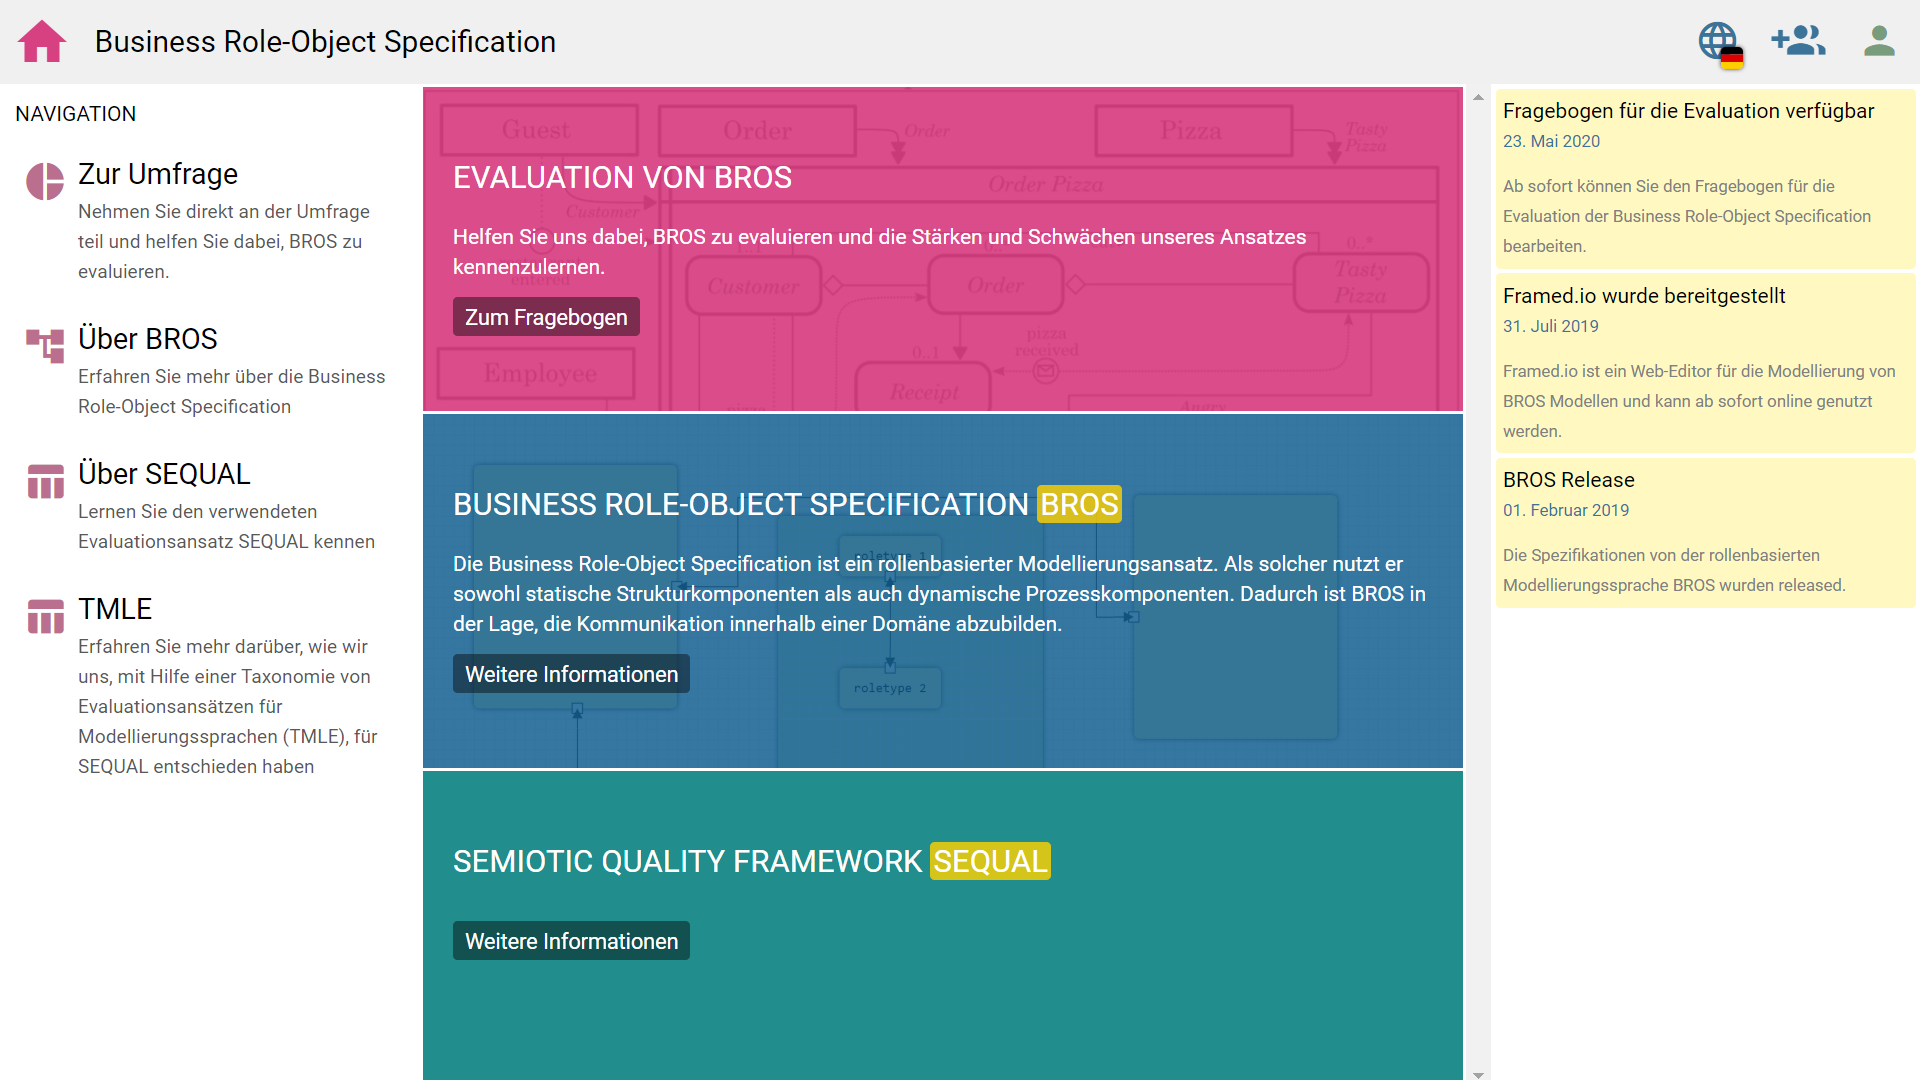
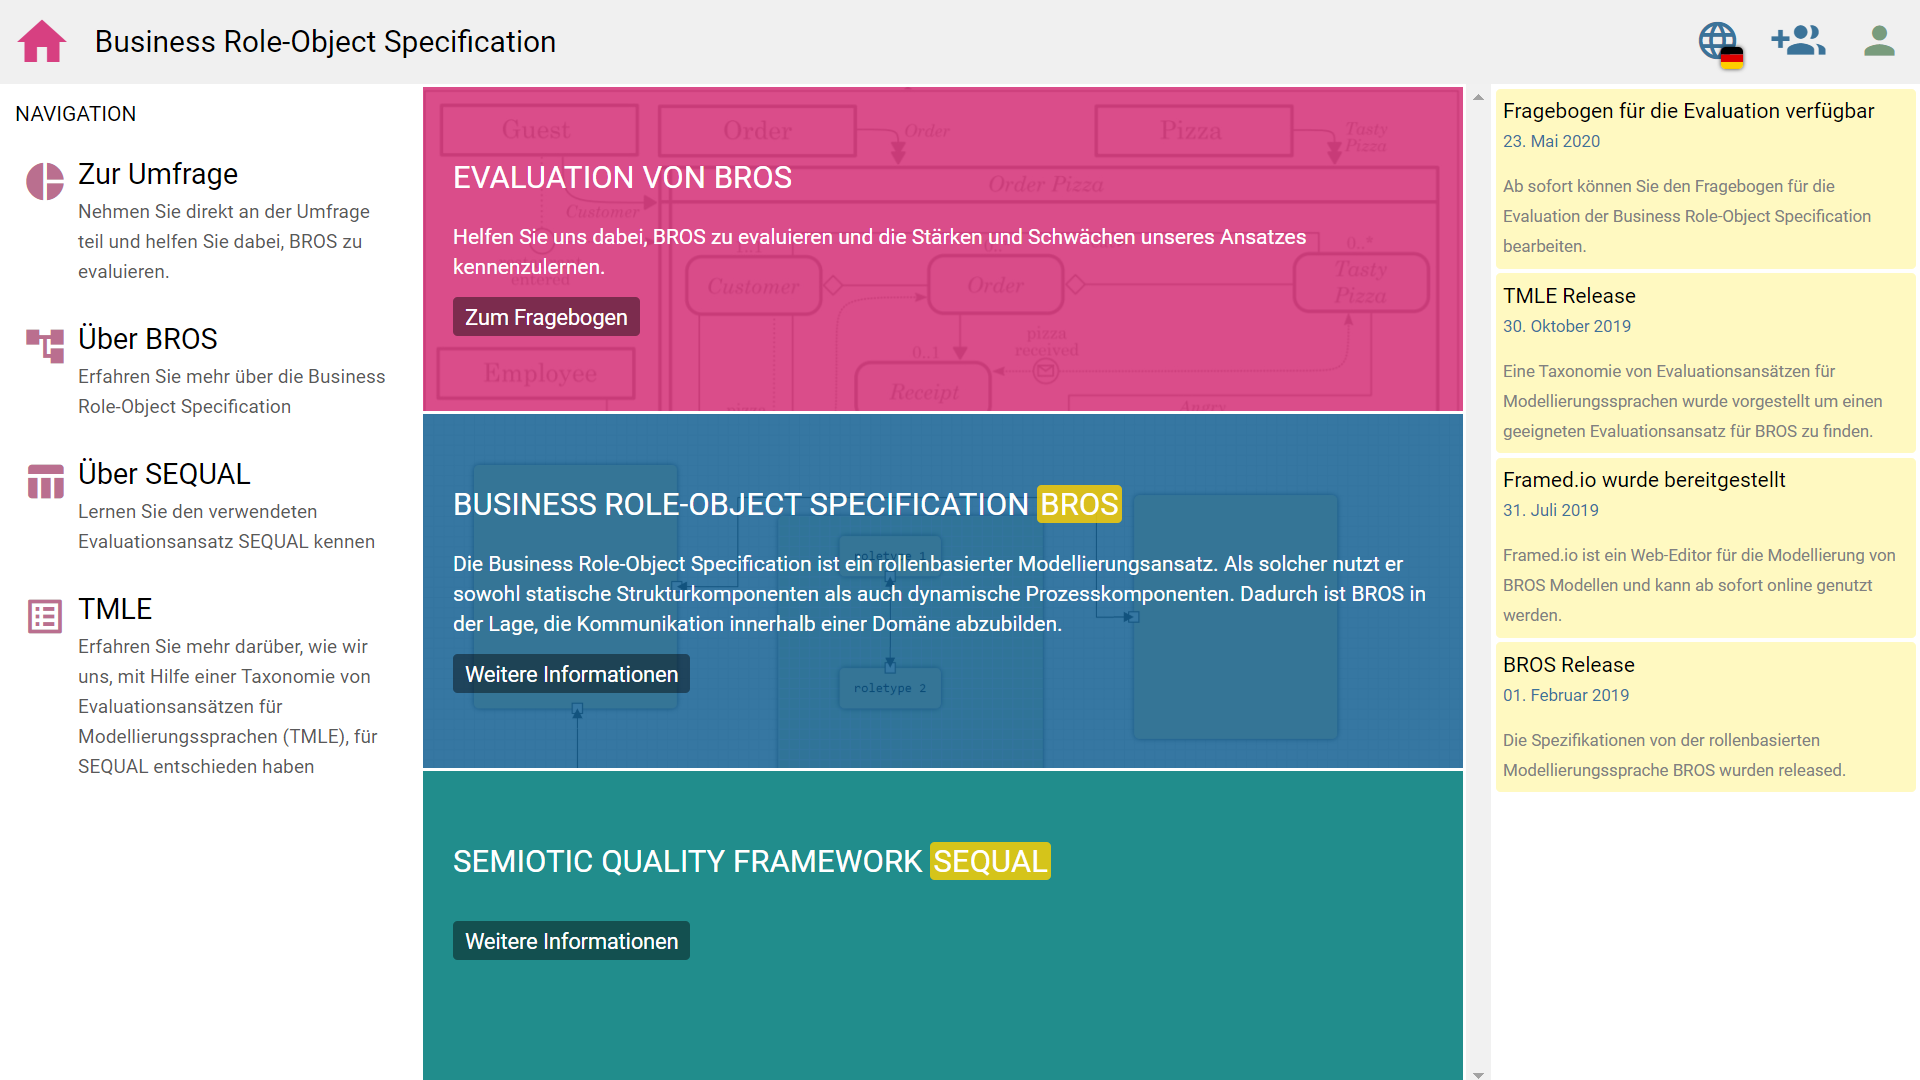
bugfix

Changed region(s): [[0.7812, 0.3361, 1.0, 0.7333], [0.7812, 0.2444, 0.9062, 0.3056], [0.0, 0.55, 0.0312, 0.5806]]

diff --git a/docs/main-es2015.js b/docs/main-es2015.js
@@ -320,7 +320,7 @@ NavigationComponent.ɵcmp = _angular_core__WEBPACK_IMPORTED_MODULE_0__["ɵɵdefi
         _angular_core__WEBPACK_IMPORTED_MODULE_0__["ɵɵelementStart"](33, "div", 7);
         _angular_core__WEBPACK_IMPORTED_MODULE_0__["ɵɵelementStart"](34, "div");
         _angular_core__WEBPACK_IMPORTED_MODULE_0__["ɵɵelementStart"](35, "mat-icon", 3);
-        _angular_core__WEBPACK_IMPORTED_MODULE_0__["ɵɵtext"](36, "table_chart");
+        _angular_core__WEBPACK_IMPORTED_MODULE_0__["ɵɵtext"](36, "list_alt");
         _angular_core__WEBPACK_IMPORTED_MODULE_0__["ɵɵelementEnd"]();
         _angular_core__WEBPACK_IMPORTED_MODULE_0__["ɵɵelementEnd"]();
         _angular_core__WEBPACK_IMPORTED_MODULE_0__["ɵɵelementStart"](37, "div");
@@ -368,7 +368,7 @@ class NewsfeedComponent {
     }
 }
 NewsfeedComponent.ɵfac = function NewsfeedComponent_Factory(t) { return new (t || NewsfeedComponent)(); };
-NewsfeedComponent.ɵcmp = _angular_core__WEBPACK_IMPORTED_MODULE_0__["ɵɵdefineComponent"]({ type: NewsfeedComponent, selectors: [["app-newsfeed"]], decls: 22, vars: 0, consts: [[1, "body"], [1, "news"], [1, "headline"], [1, "date"], [1, "sub-title"]], template: function NewsfeedComponent_Template(rf, ctx) { if (rf & 1) {
+NewsfeedComponent.ɵcmp = _angular_core__WEBPACK_IMPORTED_MODULE_0__["ɵɵdefineComponent"]({ type: NewsfeedComponent, selectors: [["app-newsfeed"]], decls: 29, vars: 0, consts: [[1, "body"], [1, "news"], [1, "headline"], [1, "date"], [1, "sub-title"]], template: function NewsfeedComponent_Template(rf, ctx) { if (rf & 1) {
         _angular_core__WEBPACK_IMPORTED_MODULE_0__["ɵɵelementStart"](0, "div", 0);
         _angular_core__WEBPACK_IMPORTED_MODULE_0__["ɵɵelementStart"](1, "div", 1);
         _angular_core__WEBPACK_IMPORTED_MODULE_0__["ɵɵelementStart"](2, "div", 2);
@@ -383,24 +383,35 @@ NewsfeedComponent.ɵcmp = _angular_core__WEBPACK_IMPORTED_MODULE_0__["ɵɵdefine
         _angular_core__WEBPACK_IMPORTED_MODULE_0__["ɵɵelementEnd"]();
         _angular_core__WEBPACK_IMPORTED_MODULE_0__["ɵɵelementStart"](8, "div", 1);
         _angular_core__WEBPACK_IMPORTED_MODULE_0__["ɵɵelementStart"](9, "div", 2);
-        _angular_core__WEBPACK_IMPORTED_MODULE_0__["ɵɵtext"](10, "Framed.io wurde bereitgestellt");
+        _angular_core__WEBPACK_IMPORTED_MODULE_0__["ɵɵtext"](10, "TMLE Release");
         _angular_core__WEBPACK_IMPORTED_MODULE_0__["ɵɵelementEnd"]();
         _angular_core__WEBPACK_IMPORTED_MODULE_0__["ɵɵelementStart"](11, "div", 3);
-        _angular_core__WEBPACK_IMPORTED_MODULE_0__["ɵɵtext"](12, "31. Juli 2019");
+        _angular_core__WEBPACK_IMPORTED_MODULE_0__["ɵɵtext"](12, "30. Oktober 2019");
         _angular_core__WEBPACK_IMPORTED_MODULE_0__["ɵɵelementEnd"]();
         _angular_core__WEBPACK_IMPORTED_MODULE_0__["ɵɵelementStart"](13, "div", 4);
-        _angular_core__WEBPACK_IMPORTED_MODULE_0__["ɵɵtext"](14, " Framed.io ist ein Web-Editor f\u00FCr die Modellierung von BROS Modellen und kann ab sofort online genutzt werden. ");
+        _angular_core__WEBPACK_IMPORTED_MODULE_0__["ɵɵtext"](14, " Eine Taxonomie von Evaluationsans\u00E4tzen f\u00FCr Modellierungssprachen wurde vorgestellt um einen geeigneten Evaluationsansatz f\u00FCr BROS zu finden. ");
         _angular_core__WEBPACK_IMPORTED_MODULE_0__["ɵɵelementEnd"]();
         _angular_core__WEBPACK_IMPORTED_MODULE_0__["ɵɵelementEnd"]();
         _angular_core__WEBPACK_IMPORTED_MODULE_0__["ɵɵelementStart"](15, "div", 1);
         _angular_core__WEBPACK_IMPORTED_MODULE_0__["ɵɵelementStart"](16, "div", 2);
-        _angular_core__WEBPACK_IMPORTED_MODULE_0__["ɵɵtext"](17, "BROS Release");
+        _angular_core__WEBPACK_IMPORTED_MODULE_0__["ɵɵtext"](17, "Framed.io wurde bereitgestellt");
         _angular_core__WEBPACK_IMPORTED_MODULE_0__["ɵɵelementEnd"]();
         _angular_core__WEBPACK_IMPORTED_MODULE_0__["ɵɵelementStart"](18, "div", 3);
-        _angular_core__WEBPACK_IMPORTED_MODULE_0__["ɵɵtext"](19, "01. Februar 2019");
+        _angular_core__WEBPACK_IMPORTED_MODULE_0__["ɵɵtext"](19, "31. Juli 2019");
         _angular_core__WEBPACK_IMPORTED_MODULE_0__["ɵɵelementEnd"]();
         _angular_core__WEBPACK_IMPORTED_MODULE_0__["ɵɵelementStart"](20, "div", 4);
-        _angular_core__WEBPACK_IMPORTED_MODULE_0__["ɵɵtext"](21, " Die Spezifikationen von der rollenbasierten Modellierungssprache BROS wurden released. ");
+        _angular_core__WEBPACK_IMPORTED_MODULE_0__["ɵɵtext"](21, " Framed.io ist ein Web-Editor f\u00FCr die Modellierung von BROS Modellen und kann ab sofort online genutzt werden. ");
+        _angular_core__WEBPACK_IMPORTED_MODULE_0__["ɵɵelementEnd"]();
+        _angular_core__WEBPACK_IMPORTED_MODULE_0__["ɵɵelementEnd"]();
+        _angular_core__WEBPACK_IMPORTED_MODULE_0__["ɵɵelementStart"](22, "div", 1);
+        _angular_core__WEBPACK_IMPORTED_MODULE_0__["ɵɵelementStart"](23, "div", 2);
+        _angular_core__WEBPACK_IMPORTED_MODULE_0__["ɵɵtext"](24, "BROS Release");
+        _angular_core__WEBPACK_IMPORTED_MODULE_0__["ɵɵelementEnd"]();
+        _angular_core__WEBPACK_IMPORTED_MODULE_0__["ɵɵelementStart"](25, "div", 3);
+        _angular_core__WEBPACK_IMPORTED_MODULE_0__["ɵɵtext"](26, "01. Februar 2019");
+        _angular_core__WEBPACK_IMPORTED_MODULE_0__["ɵɵelementEnd"]();
+        _angular_core__WEBPACK_IMPORTED_MODULE_0__["ɵɵelementStart"](27, "div", 4);
+        _angular_core__WEBPACK_IMPORTED_MODULE_0__["ɵɵtext"](28, " Die Spezifikationen von der rollenbasierten Modellierungssprache BROS wurden released. ");
         _angular_core__WEBPACK_IMPORTED_MODULE_0__["ɵɵelementEnd"]();
         _angular_core__WEBPACK_IMPORTED_MODULE_0__["ɵɵelementEnd"]();
         _angular_core__WEBPACK_IMPORTED_MODULE_0__["ɵɵelementEnd"]();

diff --git a/docs/main-es5.js b/docs/main-es5.js
@@ -627,7 +627,7 @@ function _classCallCheck(instance, Constructor) { if (!(instance instanceof Cons
 
           _angular_core__WEBPACK_IMPORTED_MODULE_0__["ɵɵelementStart"](35, "mat-icon", 3);
 
-          _angular_core__WEBPACK_IMPORTED_MODULE_0__["ɵɵtext"](36, "table_chart");
+          _angular_core__WEBPACK_IMPORTED_MODULE_0__["ɵɵtext"](36, "list_alt");
 
           _angular_core__WEBPACK_IMPORTED_MODULE_0__["ɵɵelementEnd"]();
 
@@ -731,7 +731,7 @@ function _classCallCheck(instance, Constructor) { if (!(instance instanceof Cons
     NewsfeedComponent.ɵcmp = _angular_core__WEBPACK_IMPORTED_MODULE_0__["ɵɵdefineComponent"]({
       type: NewsfeedComponent,
       selectors: [["app-newsfeed"]],
-      decls: 22,
+      decls: 29,
       vars: 0,
       consts: [[1, "body"], [1, "news"], [1, "headline"], [1, "date"], [1, "sub-title"]],
       template: function NewsfeedComponent_Template(rf, ctx) {
@@ -764,19 +764,19 @@ function _classCallCheck(instance, Constructor) { if (!(instance instanceof Cons
 
           _angular_core__WEBPACK_IMPORTED_MODULE_0__["ɵɵelementStart"](9, "div", 2);
 
-          _angular_core__WEBPACK_IMPORTED_MODULE_0__["ɵɵtext"](10, "Framed.io wurde bereitgestellt");
+          _angular_core__WEBPACK_IMPORTED_MODULE_0__["ɵɵtext"](10, "TMLE Release");
 
           _angular_core__WEBPACK_IMPORTED_MODULE_0__["ɵɵelementEnd"]();
 
           _angular_core__WEBPACK_IMPORTED_MODULE_0__["ɵɵelementStart"](11, "div", 3);
 
-          _angular_core__WEBPACK_IMPORTED_MODULE_0__["ɵɵtext"](12, "31. Juli 2019");
+          _angular_core__WEBPACK_IMPORTED_MODULE_0__["ɵɵtext"](12, "30. Oktober 2019");
 
           _angular_core__WEBPACK_IMPORTED_MODULE_0__["ɵɵelementEnd"]();
 
           _angular_core__WEBPACK_IMPORTED_MODULE_0__["ɵɵelementStart"](13, "div", 4);
 
-          _angular_core__WEBPACK_IMPORTED_MODULE_0__["ɵɵtext"](14, " Framed.io ist ein Web-Editor f\xFCr die Modellierung von BROS Modellen und kann ab sofort online genutzt werden. ");
+          _angular_core__WEBPACK_IMPORTED_MODULE_0__["ɵɵtext"](14, " Eine Taxonomie von Evaluationsans\xE4tzen f\xFCr Modellierungssprachen wurde vorgestellt um einen geeigneten Evaluationsansatz f\xFCr BROS zu finden. ");
 
           _angular_core__WEBPACK_IMPORTED_MODULE_0__["ɵɵelementEnd"]();
 
@@ -786,19 +786,41 @@ function _classCallCheck(instance, Constructor) { if (!(instance instanceof Cons
 
           _angular_core__WEBPACK_IMPORTED_MODULE_0__["ɵɵelementStart"](16, "div", 2);
 
-          _angular_core__WEBPACK_IMPORTED_MODULE_0__["ɵɵtext"](17, "BROS Release");
+          _angular_core__WEBPACK_IMPORTED_MODULE_0__["ɵɵtext"](17, "Framed.io wurde bereitgestellt");
 
           _angular_core__WEBPACK_IMPORTED_MODULE_0__["ɵɵelementEnd"]();
 
           _angular_core__WEBPACK_IMPORTED_MODULE_0__["ɵɵelementStart"](18, "div", 3);
 
-          _angular_core__WEBPACK_IMPORTED_MODULE_0__["ɵɵtext"](19, "01. Februar 2019");
+          _angular_core__WEBPACK_IMPORTED_MODULE_0__["ɵɵtext"](19, "31. Juli 2019");
 
           _angular_core__WEBPACK_IMPORTED_MODULE_0__["ɵɵelementEnd"]();
 
           _angular_core__WEBPACK_IMPORTED_MODULE_0__["ɵɵelementStart"](20, "div", 4);
 
-          _angular_core__WEBPACK_IMPORTED_MODULE_0__["ɵɵtext"](21, " Die Spezifikationen von der rollenbasierten Modellierungssprache BROS wurden released. ");
+          _angular_core__WEBPACK_IMPORTED_MODULE_0__["ɵɵtext"](21, " Framed.io ist ein Web-Editor f\xFCr die Modellierung von BROS Modellen und kann ab sofort online genutzt werden. ");
+
+          _angular_core__WEBPACK_IMPORTED_MODULE_0__["ɵɵelementEnd"]();
+
+          _angular_core__WEBPACK_IMPORTED_MODULE_0__["ɵɵelementEnd"]();
+
+          _angular_core__WEBPACK_IMPORTED_MODULE_0__["ɵɵelementStart"](22, "div", 1);
+
+          _angular_core__WEBPACK_IMPORTED_MODULE_0__["ɵɵelementStart"](23, "div", 2);
+
+          _angular_core__WEBPACK_IMPORTED_MODULE_0__["ɵɵtext"](24, "BROS Release");
+
+          _angular_core__WEBPACK_IMPORTED_MODULE_0__["ɵɵelementEnd"]();
+
+          _angular_core__WEBPACK_IMPORTED_MODULE_0__["ɵɵelementStart"](25, "div", 3);
+
+          _angular_core__WEBPACK_IMPORTED_MODULE_0__["ɵɵtext"](26, "01. Februar 2019");
+
+          _angular_core__WEBPACK_IMPORTED_MODULE_0__["ɵɵelementEnd"]();
+
+          _angular_core__WEBPACK_IMPORTED_MODULE_0__["ɵɵelementStart"](27, "div", 4);
+
+          _angular_core__WEBPACK_IMPORTED_MODULE_0__["ɵɵtext"](28, " Die Spezifikationen von der rollenbasierten Modellierungssprache BROS wurden released. ");
 
           _angular_core__WEBPACK_IMPORTED_MODULE_0__["ɵɵelementEnd"]();
 

diff --git a/src/app/components/newsfeed/newsfeed.component.html b/src/app/components/newsfeed/newsfeed.component.html
@@ -7,6 +7,13 @@
         </div>
     </div>
     <div class="news">
+        <div class="headline">TMLE Release</div>
+        <div class="date">30. Oktober 2019</div>
+        <div class="sub-title">
+            Eine Taxonomie von Evaluationsansätzen für Modellierungssprachen wurde vorgestellt um einen geeigneten Evaluationsansatz für BROS zu finden.
+        </div>
+    </div>
+    <div class="news">
         <div class="headline">Framed.io wurde bereitgestellt</div>
         <div class="date">31. Juli 2019</div>
         <div class="sub-title">

diff --git a/src/app/components/navigation/navigation.component.html b/src/app/components/navigation/navigation.component.html
@@ -43,7 +43,7 @@
     </div>
     <div class="label">
         <div>
-            <mat-icon class="icon">table_chart</mat-icon>
+            <mat-icon class="icon">list_alt</mat-icon>
         </div>
         <div>
             <div class="headline">
